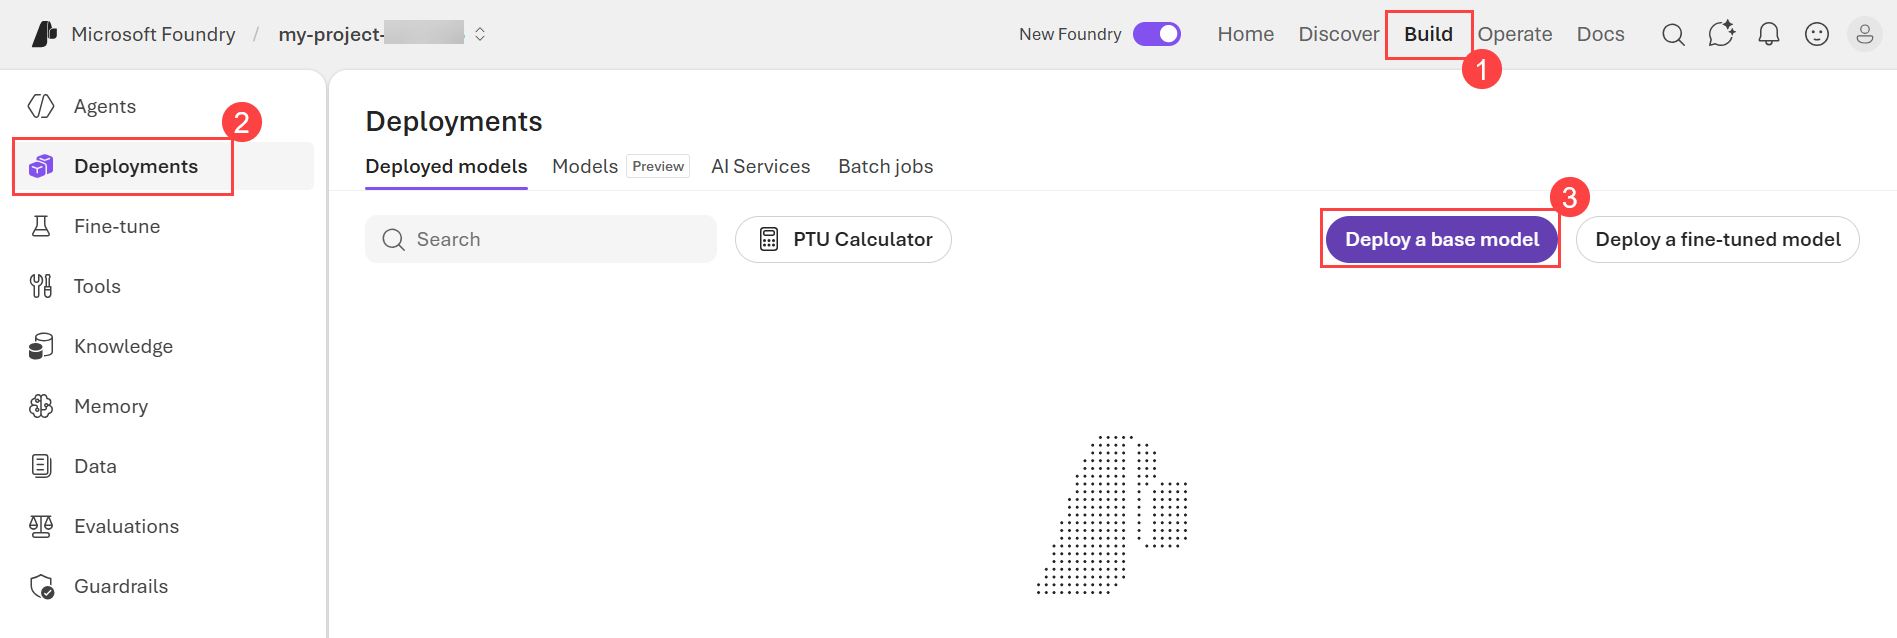
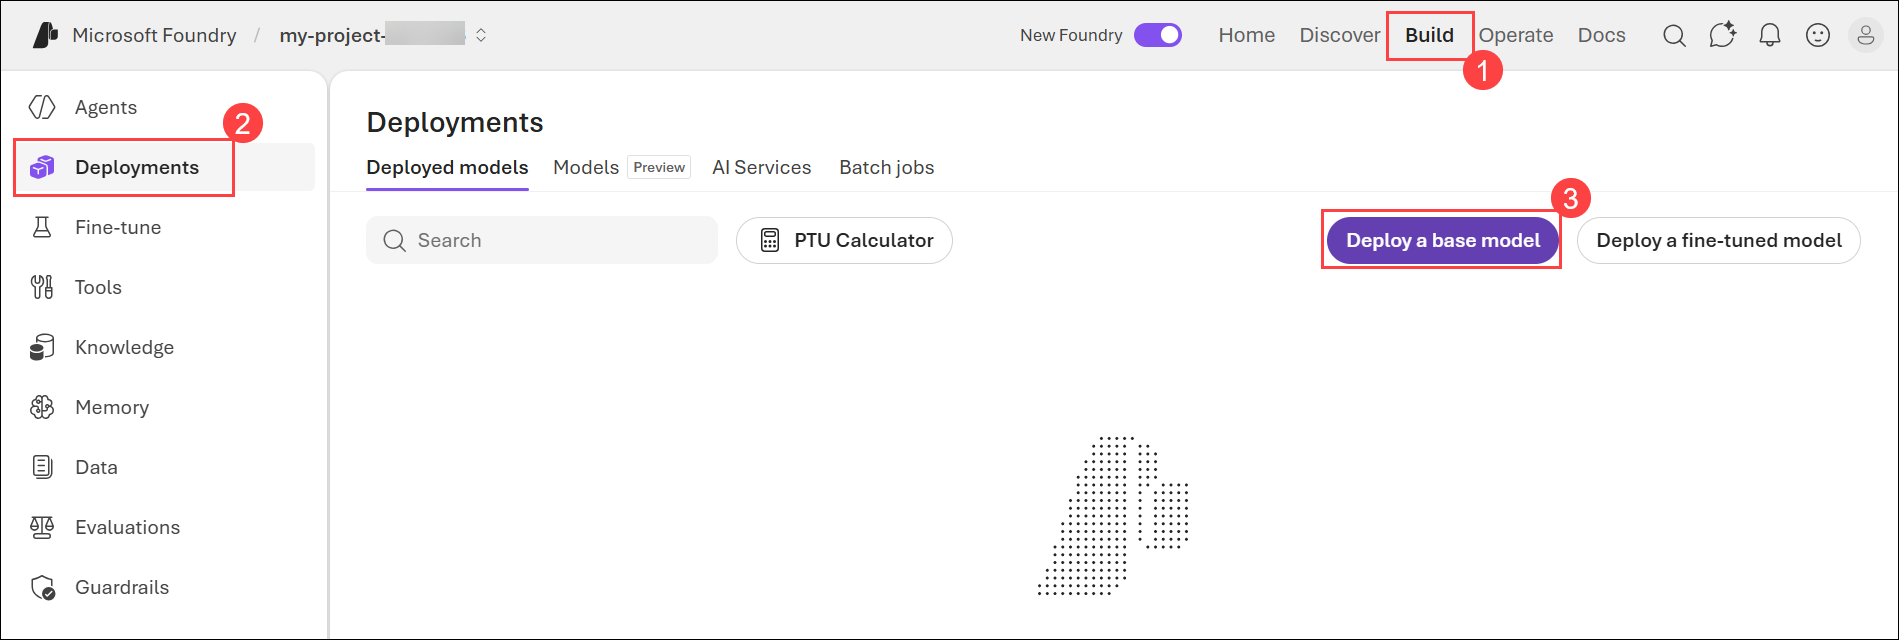
updated images

diff --git a/lab-1.md b/lab-1.md
@@ -120,7 +120,7 @@ In this task, you will deploy a large language model (LLM) and an embedding mode
 
     ![](./media/new/a2.png)
 
-1. On the **Deploy gpt-4.1** page under the Deployment Information, change the **Tokens per Minute Rate Limit** to **200K (1)** and click on **Create deployment (2)**.
+1. On the **Deploy gpt-4.1** page under the Deployment Information, change the **Tokens per Minute Rate Limit** to **200K (1)** and click on **Deploy (2)**.
 
       ![](./media/new/a3-1.png)
 
@@ -271,7 +271,7 @@ Before assigning the required roles, it is important to understand how these per
    - Then select **my-search-service-<inject key="Deployment ID" enableCopy="false"></inject> (4)** search service.
    - Click on **Select (5)**
 
-     ![](./media/blobra.png)
+     ![](./media/new/blobra-1.png)
 
 1. Finally, click **Review + assign** twice to complete the assignment.
 
@@ -335,7 +335,7 @@ Before assigning the required roles, it is important to understand how these per
 
 1. Select **Foundry (1)** from the left pane and select **my-foundry-<inject key="Deployment ID" enableCopy="false"></inject> (2)**.
 
-   ![](./media/new/e6.png)
+   ![](./media/new/e6-1.png)
 
 1. In the Foundry service blade, select **Access control (IAM) (1)**, click **+ Add (2)** drop-down, and then choose **Add role assignment (3)**.
 
@@ -379,7 +379,7 @@ Before assigning the required roles, it is important to understand how these per
    - Then, select **my-search-service-<inject key="Deployment ID" enableCopy="false"></inject> (4)** search service.
    - Click on **Select (5)**
 
-     ![](./media/new/e8.png)
+     ![](./media/new/e8-1.png)
 
 1. Click **Review + assign** twice to finalize the role assignment.
 

diff --git a/lab-3.md b/lab-3.md
@@ -65,7 +65,7 @@ In this task, you will create an **Azure AI Search index** to store vectorized r
 
 1. On the **Overview (1)** page of the Search Service, click **Import data (2)**.
 
-    ![](./media/L3T1S10.png)
+    ![](./media/L3T1S10-1.png)
 
 1. Select **Azure Blob Storage** as the data source.
 
@@ -98,7 +98,7 @@ In this task, you will create an **Azure AI Search index** to store vectorized r
    |Authentication type|**System assigned identity** **(5)**|
    |Acknowledgement rectangle|**Checked** **(6)**|
 
-      ![](./media/new/L3T1S14.png)
+      ![](./media/new/L3T1S14-1.png)
 
 1. Click on **Next** twice.
 
@@ -118,7 +118,7 @@ In this task, you will create an **Azure AI Search index** to store vectorized r
 
 1. Select **Foundry (1)** from the left pane and select **my-foundry-<inject key="Deployment ID" enableCopy="false"></inject> (2)**.
 
-   ![](./media/new/e6.png)
+   ![](./media/new/e6-1.png)
 
 1. On the **Overview** pane, click on **Go to Foundry portal** to navigate to the **Microsoft Foundry** portal.
 
